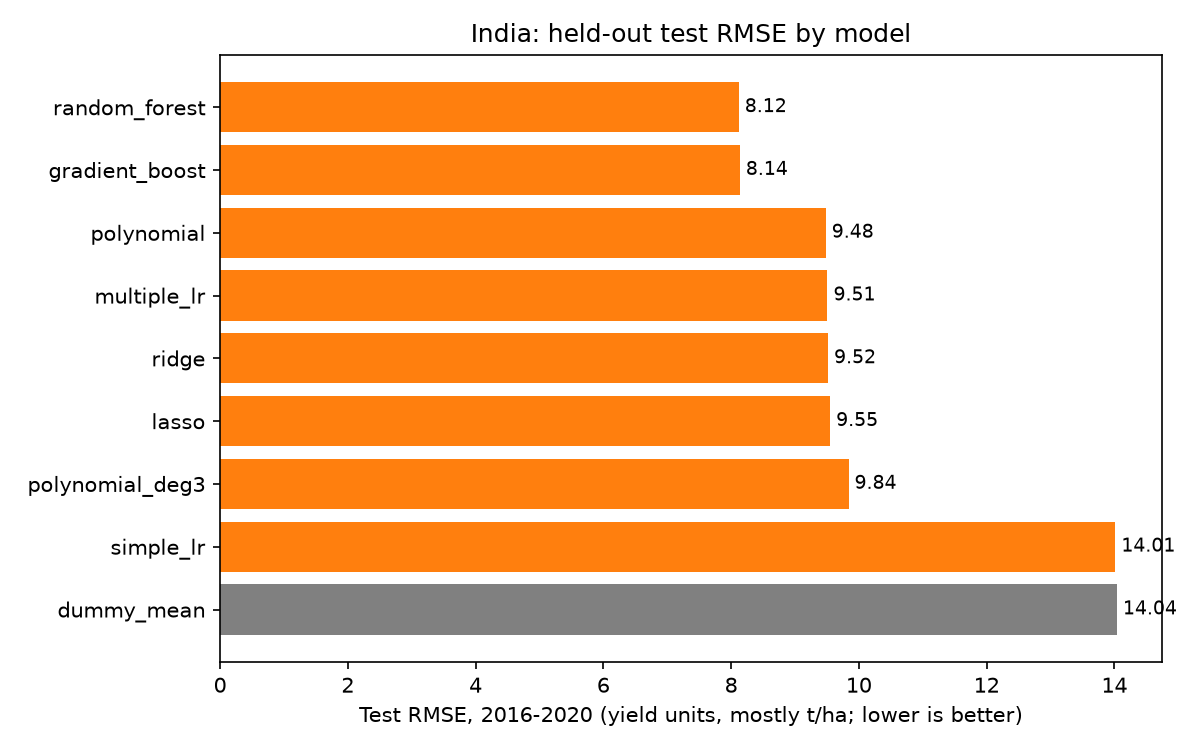
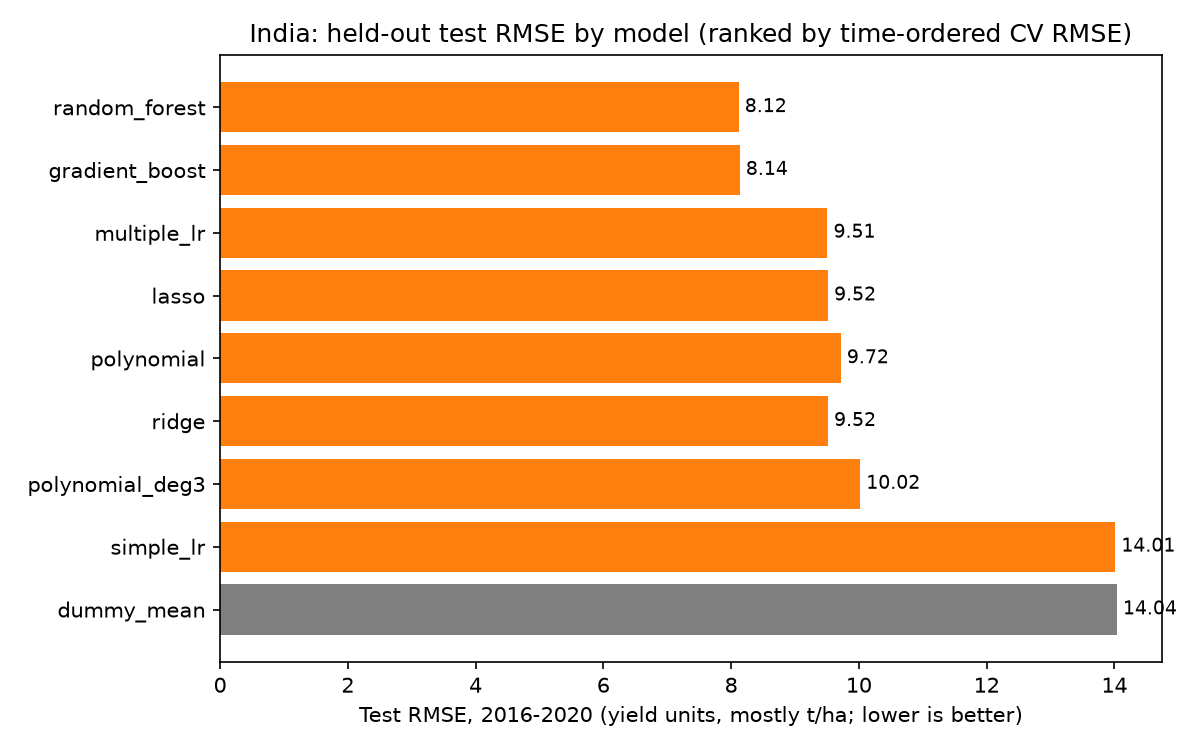
fix: india units, unseen categories, time-ordered CV
- Time-ordered penalty tuning (CODE_REVIEW M4): for India, the Ridge/Lasso
  alpha of polynomial, ridge, lasso and polynomial_deg3 is now chosen by a
  GridSearchCV on YearBlockSplit(3) (every validation year after its training
  years) instead of RidgeCV's leave-one-out / LassoCV's unshuffled 5-fold.
  The search sits inside the log1p wrapper, so alpha is still chosen by
  squared error on the modelling scale, exactly like RidgeCV/LassoCV; only
  the folds changed. (Scoring in original units overflowed expm1 for weakly
  penalised candidates, giving NaN scores; caught in the rebuild and fixed.)
  Same Ridge grid; Lasso uses an explicit 1e-5..1 log grid. Kaggle unchanged.
- Results (test 2016-2020, RMSE): ridge 9.5169 -> 9.5169, lasso 9.5497 ->
  9.5173, polynomial 9.4807 -> 9.7175, polynomial_deg3 9.8373 -> 10.0209.
  Random forest (still selected, 8.1195), XGBoost, OLS, simple_lr and the
  baseline are identical. CV RMSE of the tuned models rises (no future years
  inform alpha any more). Notebook 04 text updated to match.
- india_test.csv is saved in CV order with a train_rmse column, like Kaggle;
  india_best_params.json also records the chosen alphas.
- deployable() also unwraps a search inside a TransformedTargetRegressor.
- Simple mode no longer labels India errors t/ha: "yield units (varies by
  crop)" with a tooltip on the units (bales for cotton, jute, mesta, sannhemp).
- Unseen test-year crops are covered by OneHotEncoder(handle_unknown=ignore)
[…]

diff --git a/src/models.py b/src/models.py
@@ -1,13 +1,15 @@
 """Model definitions. Every model is a full Pipeline: preprocessing + regressor."""
 
+import copy
+
 import numpy as np
 from scipy.stats import loguniform, randint, uniform
 from sklearn.base import RegressorMixin
 from sklearn.compose import TransformedTargetRegressor
 from sklearn.dummy import DummyRegressor
 from sklearn.ensemble import RandomForestRegressor
-from sklearn.linear_model import LassoCV, LinearRegression, RidgeCV
-from sklearn.model_selection import BaseCrossValidator, RandomizedSearchCV
+from sklearn.linear_model import Lasso, LassoCV, LinearRegression, Ridge, RidgeCV
+from sklearn.model_selection import BaseCrossValidator, GridSearchCV, RandomizedSearchCV
 from sklearn.pipeline import Pipeline, make_pipeline
 
 try:
@@ -24,6 +26,9 @@ from src.data import make_kfold
 from src.features import build_preprocessor
 
 RIDGE_ALPHAS = np.logspace(-3, 3, 50)
+# Only used when the penalty is tuned on given folds (India): LassoCV builds its own
+# data-driven grid, GridSearchCV needs an explicit one. 50 values, 1e-5 to 1.
+LASSO_ALPHAS = np.logspace(-5, 0, 50)
 LASSO_MAX_ITER = 20000
 POLY_DEGREE = 2
 CUBIC_DEGREE = 3
@@ -61,11 +66,17 @@ def get_linear_models(
     numeric: list[str] = config.NUMERIC_FEATURES,
     categorical: list[str] = config.CATEGORICAL_FEATURES,
     log_target: bool = False,
+    cv: BaseCrossValidator | None = None,
 ) -> dict[str, RegressorMixin]:
     """Baseline + linear model family, each as an unfitted pipeline.
 
     simple_feature: the single numeric feature for simple_lr. It must be chosen
         on the TRAINING split only (see src.eda.top_pearson_feature).
+    cv: None (Kaggle) tunes the penalty with RidgeCV (efficient leave-one-out) and
+        LassoCV (5 unshuffled folds). If a splitter is given (India: time-ordered year
+        blocks), Ridge/Lasso are instead wrapped in a GridSearchCV over the same alpha
+        grid on those folds, so the penalty is never chosen by scoring on past years
+        with a model that saw later ones.
     """
     models = {
         "dummy_mean": make_pipeline(
@@ -94,7 +105,36 @@ def get_linear_models(
             build_preprocessor(numeric, categorical, poly_degree=CUBIC_DEGREE),
             RidgeCV(alphas=RIDGE_ALPHAS),
         )
-    return {name: wrap_target(model, log_target) for name, model in models.items()}
+    models = {name: wrap_target(model, log_target) for name, model in models.items()}
+    if cv is not None:
+        for name in [n for n in PENALISED_LINEAR if n in models]:
+            models[name] = time_tuned(models[name], log_target, cv)
+    return models
+
+
+PENALISED_LINEAR = ["polynomial", "ridge", "lasso", "polynomial_deg3"]
+
+
+def time_tuned(model: RegressorMixin, log_target: bool, cv: BaseCrossValidator) -> RegressorMixin:
+    """Swap RidgeCV/LassoCV for plain Ridge/Lasso and tune alpha with GridSearchCV on `cv`.
+
+    Only the folds change: like RidgeCV/LassoCV, the search sits INSIDE the log-target
+    wrapper, so alpha is still chosen by squared error on the modelling (log) scale.
+    Scoring in original units instead overflows expm1 for weakly penalised candidates on
+    later years (NaN scores that silently drop those candidates).
+    """
+    pipe = model.regressor if log_target else model
+    if isinstance(pipe[-1], LassoCV):
+        step, penalised, grid = "lasso", Lasso(max_iter=LASSO_MAX_ITER), LASSO_ALPHAS
+    else:
+        step, penalised, grid = "ridge", Ridge(), RIDGE_ALPHAS
+    pipe = Pipeline([*pipe.steps[:-1], (step, penalised)])
+    # n_jobs=-1: a cold-started Lasso grid is slow (about 12 min serially on India); inside an
+    # already-parallel outer CV joblib runs it serially, so cores are never oversubscribed.
+    search = GridSearchCV(
+        pipe, {f"{step}__alpha": grid}, cv=cv, scoring="neg_mean_squared_error", n_jobs=-1
+    )
+    return wrap_target(search, log_target)
 
 
 def get_nonlinear_models(
@@ -151,8 +191,14 @@ def deployable(model: RegressorMixin) -> RegressorMixin:
 
     Saving the search wrapper would also pickle its CV splitter, which is not needed
     for prediction and breaks loading when the splitter is defined in a __main__ script.
+    A search inside a log-target wrapper (time_tuned) is replaced by its best estimator too.
     """
-    return getattr(model, "best_estimator_", model)  # only fitted searches have it
+    model = getattr(model, "best_estimator_", model)  # only fitted searches have it
+    inner = getattr(model, "regressor_", None)
+    if isinstance(model, TransformedTargetRegressor) and hasattr(inner, "best_estimator_"):
+        model = copy.copy(model)  # shallow copy: the caller's fitted model is left as it is
+        model.regressor_ = inner.best_estimator_
+    return model
 
 
 def fitted_pipeline(model: RegressorMixin) -> Pipeline:
@@ -169,5 +215,10 @@ def final_estimator(model: RegressorMixin) -> RegressorMixin:
 
 
 def chosen_alpha(model: RegressorMixin) -> float | None:
-    """Regularisation strength picked by RidgeCV/LassoCV, or None for other models."""
-    return getattr(final_estimator(model), "alpha_", None)
+    """Regularisation strength picked by RidgeCV/LassoCV or a GridSearchCV, else None."""
+    estimator = final_estimator(model)
+    if hasattr(estimator, "alpha_"):  # RidgeCV / LassoCV
+        return estimator.alpha_
+    if isinstance(estimator, (Ridge, Lasso)):  # tuned by time_tuned's GridSearchCV
+        return estimator.alpha
+    return None

diff --git a/src/india.py b/src/india.py
@@ -19,12 +19,19 @@ import matplotlib.pyplot as plt
 import numpy as np
 import pandas as pd
 from sklearn.base import RegressorMixin, clone
+from sklearn.metrics import root_mean_squared_error
 from sklearn.model_selection import TimeSeriesSplit
 
 from src import config
 from src.eda import top_pearson_feature
 from src.evaluate import cross_validate_models, holdout_metrics
-from src.models import deployable, get_linear_models, get_nonlinear_models
+from src.models import (
+    PENALISED_LINEAR,
+    chosen_alpha,
+    deployable,
+    get_linear_models,
+    get_nonlinear_models,
+)
 from src.plots import save_figure
 
 logger = logging.getLogger(__name__)
@@ -139,6 +146,9 @@ def india_models(
 ) -> dict[str, RegressorMixin]:
     """The same model suite as Kaggle, on a log1p target, with time-ordered inner CV.
 
+    Every tuned model (tree searches and the Ridge/Lasso penalty) is tuned on
+    YearBlockSplit folds, the same time-ordered scheme as the evaluation.
+
     numeric: the numeric inputs to use (the ablation passes a reduced list). The
     preprocessor selects only these columns, so any other columns in X are ignored.
     """
@@ -150,6 +160,7 @@ def india_models(
         numeric,
         config.INDIA_CATEGORICAL_FEATURES,
         log_target=True,  # yield spans 0.01 to >1,000 across 54 crops (skew >> 1)
+        cv=YearBlockSplit(INDIA_INNER_CV_FOLDS),
     )
     trees = get_nonlinear_models(
         numeric,
@@ -169,7 +180,13 @@ def fit_and_test(
     fitted, rows = {}, []
     for name, model in models.items():
         fitted[name] = clone(model).fit(X_train, y_train)
-        rows.append({"model": name, **holdout_metrics(y_test, fitted[name].predict(X_test))})
+        rows.append(
+            {
+                "model": name,
+                **holdout_metrics(y_test, fitted[name].predict(X_test)),
+                "train_rmse": root_mean_squared_error(y_train, fitted[name].predict(X_train)),
+            }
+        )
     return pd.DataFrame(rows).sort_values("rmse").reset_index(drop=True), fitted
 
 
@@ -279,6 +296,8 @@ def main() -> None:
     # --- The ONLY place the India test years are used (main suite + ablation). ---
     X_test, _ = india_xy(test)
     test_results, fitted = fit_and_test(models, train, test)
+    # Saved in CV order (the selection criterion), like the Kaggle test_results.csv.
+    test_results = test_results.set_index("model").loc[cv["model"]].reset_index()
     test_results.to_csv(config.TABLES_DIR / "india_test.csv", index=False)
     print("\nIndia test (2016-2020):\n" + test_results.round(4).to_string(index=False))
 
@@ -300,6 +319,9 @@ def main() -> None:
     print(f"\nPer-crop test RMSE for {best_overall}:\n" + crops.round(3).to_string(index=False))
 
     params = {name: fitted[name].best_params_ for name in TREE_MODEL_NAMES}
+    params.update(
+        {name: {"alpha": float(chosen_alpha(fitted[name]))} for name in PENALISED_LINEAR}
+    )
     params = json.loads(json.dumps(params, default=float))
     (config.TABLES_DIR / "india_best_params.json").write_text(json.dumps(params, indent=2))
     # Only the model notebook 04 loads; best_tree is recorded by name (it is usually the same).
@@ -308,7 +330,7 @@ def main() -> None:
         json.dumps({"best_overall": best_overall, "best_tree": best_tree}, indent=2)
     )
 
-    ordered = test_results.sort_values("rmse", ascending=False)
+    ordered = test_results.iloc[::-1]  # CV ranking, best at the top of the horizontal bars
     fig, ax = plt.subplots(figsize=(8, 5))
     colors = ["grey" if m == "dummy_mean" else "tab:orange" for m in ordered["model"]]
     ax.barh(ordered["model"], ordered["rmse"], color=colors)
@@ -316,7 +338,7 @@ def main() -> None:
         ax.text(value, y_pos, f" {value:.2f}", va="center", fontsize=9)
     ax.set(
         xlabel="Test RMSE, 2016-2020 (yield units, mostly t/ha; lower is better)",
-        title="India: held-out test RMSE by model",
+        title="India: held-out test RMSE by model (ranked by time-ordered CV RMSE)",
     )
     save_figure(fig, "india_model_comparison")
     plt.close(fig)

diff --git a/ui/plain.py b/ui/plain.py
@@ -8,6 +8,8 @@ Wording stays descriptive ("the model predicts", "is associated with"), never ca
 import numpy as np
 
 MINUS = "−"
+# The India data mixes units across crops, so its errors are never labelled t/ha.
+INDIA_UNIT = "yield units"
 
 FRIENDLY = {  # feature -> everyday name (Simple mode charts and sentences)
     "soil_ph": "Soil pH",
@@ -104,6 +106,12 @@ TIPS = {  # one-line explanations behind every ⓘ (both modes)
     "time_cv": (
         "Cross-validation where every check scores the model only on years later than the "
         "ones it trained on. sd = spread across the checks."
+    ),
+    "india_units": (
+        "The India records use each crop's own unit: most crops are in tonnes per hectare, "
+        "but in Indian crop statistics cotton is counted in bales of 170 kg and jute, mesta "
+        "and sannhemp in bales of 180 kg (coconut, counted in nuts, is left out). One error "
+        "across all crops therefore has no single unit."
     ),
     "relative": (
         "The crop's typical error divided by its average yield. Under 50% is labelled 'works well'."
@@ -313,8 +321,8 @@ def india_headline(lookup_rmse: float, best_rmse: float, crop_share: float) -> s
     return (
         f"On real Indian crop records, the crop grown explains most of the yield "
         f"(<b>{pct(crop_share)}</b>), and a simple crop-by-state look-up "
-        f"(<b>{lookup_rmse:.2f} t/ha</b> typical error) {comparison} the best model "
-        f"(<b>{best_rmse:.2f} t/ha</b>)."
+        f"(<b>{lookup_rmse:.2f} {INDIA_UNIT}</b> typical error) {comparison} the best model "
+        f"(<b>{best_rmse:.2f} {INDIA_UNIT}</b>)."
     )
 
 
@@ -329,7 +337,8 @@ def lesson_lookup(lookup_rmse: float, best_rmse: float, beats_every_model: bool)
     verdict = "It beats every model." if beats_every_model else "It comes close to the models."
     return f"{lookup_rmse:.2f} vs {best_rmse:.2f}", (
         f"A simple <b>look-up</b> of each crop's usual yield in each state is typically off by "
-        f"<b>{lookup_rmse:.2f} t/ha</b>, against <b>{best_rmse:.2f} t/ha</b> for the best "
+        f"<b>{lookup_rmse:.2f} {INDIA_UNIT}</b>, against <b>{best_rmse:.2f} {INDIA_UNIT}</b> "
+        "for the best "
         f"model. {verdict}"
     )
 

diff --git a/app.py b/app.py
@@ -79,7 +79,10 @@ COLUMN_LABELS = {
 INDIA_TABLES = {  # pill label -> (saved table, one-sentence caption, ⓘ text)
     "Test results": (
         "india_test",
-        "Every model trained on 1997–2015 and evaluated once on the 2016–2020 test years.",
+        (
+            "Every model trained on 1997–2015 and evaluated once on the 2016–2020 test years, "
+            "ranked by time-ordered CV RMSE (the selection criterion)."
+        ),
         TIPS["metrics"],
     ),
     "Look-up baseline": (
@@ -849,7 +852,7 @@ with tab_real:
             "To build it: 1. download <code>crop_yield.csv</code> from "
             '<a href="https://data.mendeley.com/datasets/ncw2vbcgnk" target="_blank">Mendeley '
             "Data</a>; 2. save it as <code>data/raw/india/crop_yield.csv</code>; 3. run "
-            "<code>python -m src.india</code> (about 26 minutes; <code>python run.py build</code> "
+            "<code>python -m src.india</code> (about 21 minutes; <code>python run.py build</code> "
             "rebuilds everything). The other four tabs work without it.",
         )
     else:
@@ -878,7 +881,8 @@ with tab_real:
             with compare_side, st.container(key="card-india-compare", height="stretch"):
                 card_title(
                     "Typical error on the 2016–2020 test years",
-                    "t/ha · lower is better",
+                    f"{plain.INDIA_UNIT} (varies by crop){tip(TIPS['india_units'])} · lower is "
+                    "better",
                     help_text=TIPS["rmse"],
                 )
                 guess = india_test.set_index("model").loc["dummy_mean", "rmse"]
@@ -898,7 +902,7 @@ with tab_real:
                         compare,
                         "label",
                         "rmse",
-                        "Typical error (t/ha)",
+                        f"Typical error ({plain.INDIA_UNIT})",
                         ".2f",
                         height=250,
                         highlight={compare["label"].iloc[0]},

diff --git a/tests/test_plain.py b/tests/test_plain.py
@@ -53,6 +53,18 @@ def test_india_sentences():
     assert "does not beat" in plain.india_headline(9.0, 8.1195, 0.8337)
 
 
+def test_india_sentences_never_claim_t_per_ha():
+    """India yields mix units across crops (bales for cotton/jute), so no India text says t/ha."""
+    texts = [
+        plain.india_headline(7.8075, 8.1195, 0.8337),
+        plain.lesson_lookup(7.8075, 8.1195, beats_every_model=True)[1],
+        plain.lesson_crop(0.8337)[1],
+        plain.lesson_seasons(8, 10)[1],
+    ]
+    assert all("t/ha" not in t for t in texts)
+    assert "yield units" in texts[0] and "yield units" in texts[1]
+
+
 def test_tie_note_counts_models_within_a_hundredth():
     assert plain.tie_note([0.6461, 0.6462, 0.6526, 0.6533, 0.6533, 0.6635]).startswith("The top 5")
     assert plain.tie_note([0.60, 0.70]) == ""
